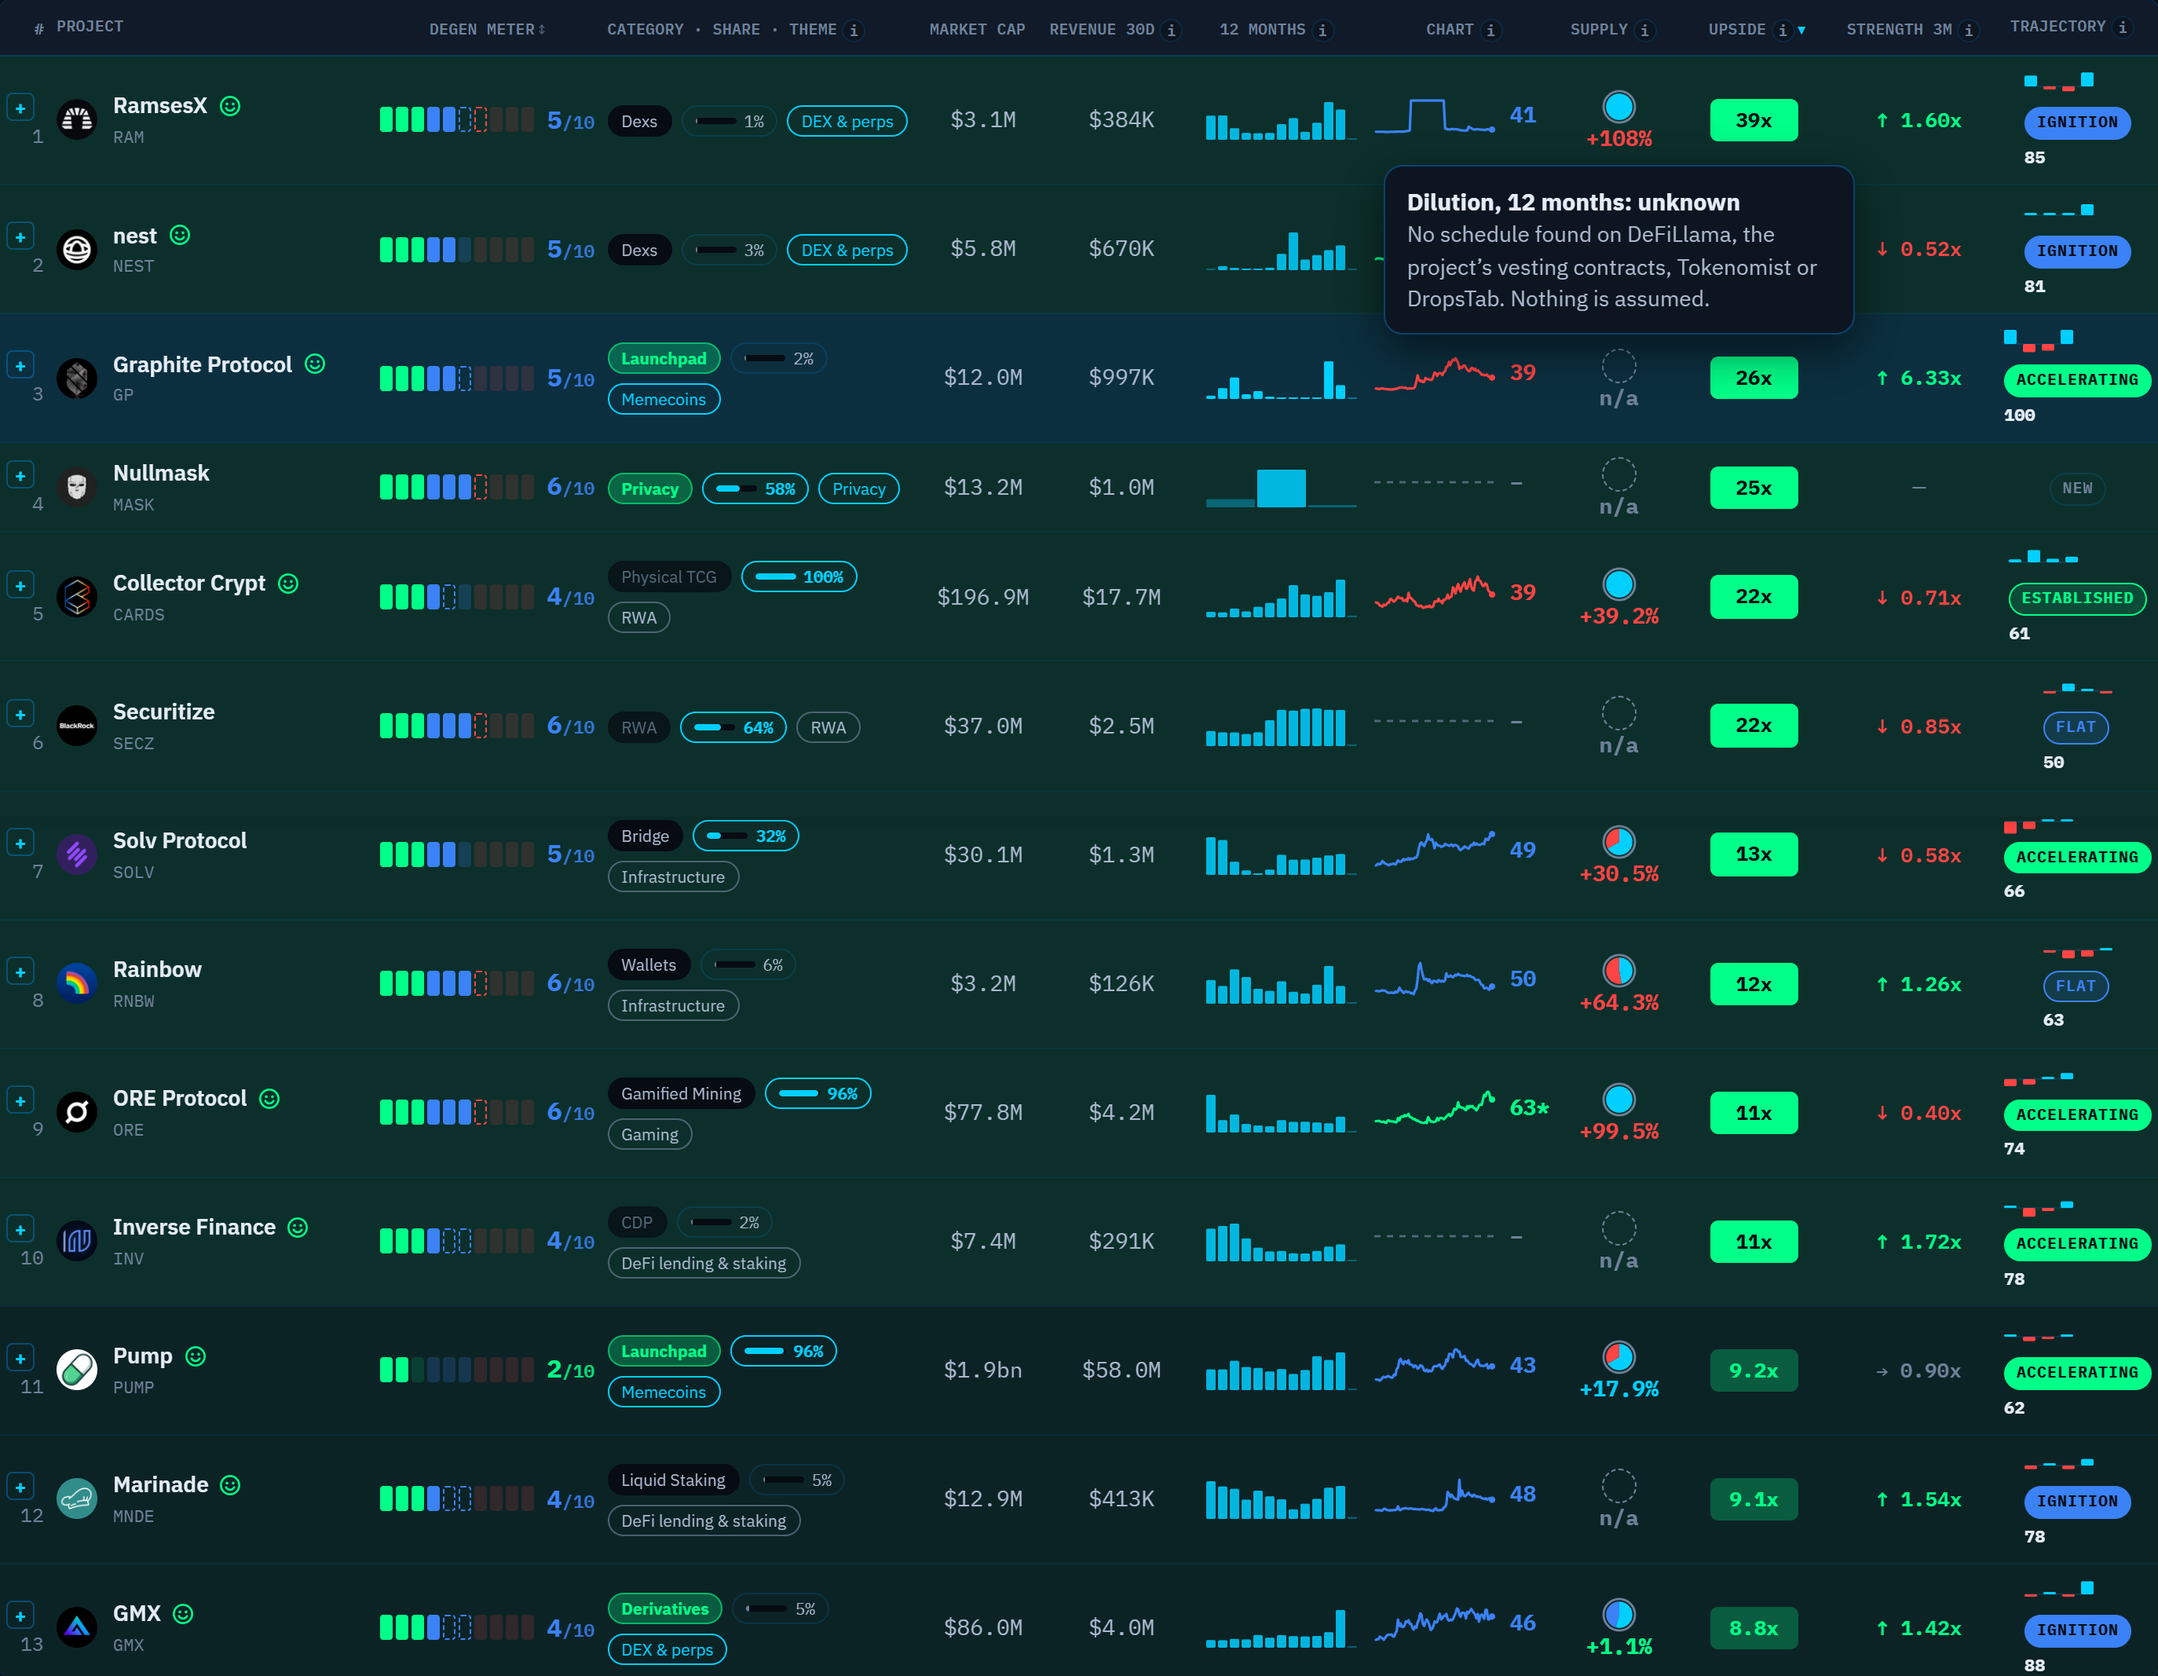
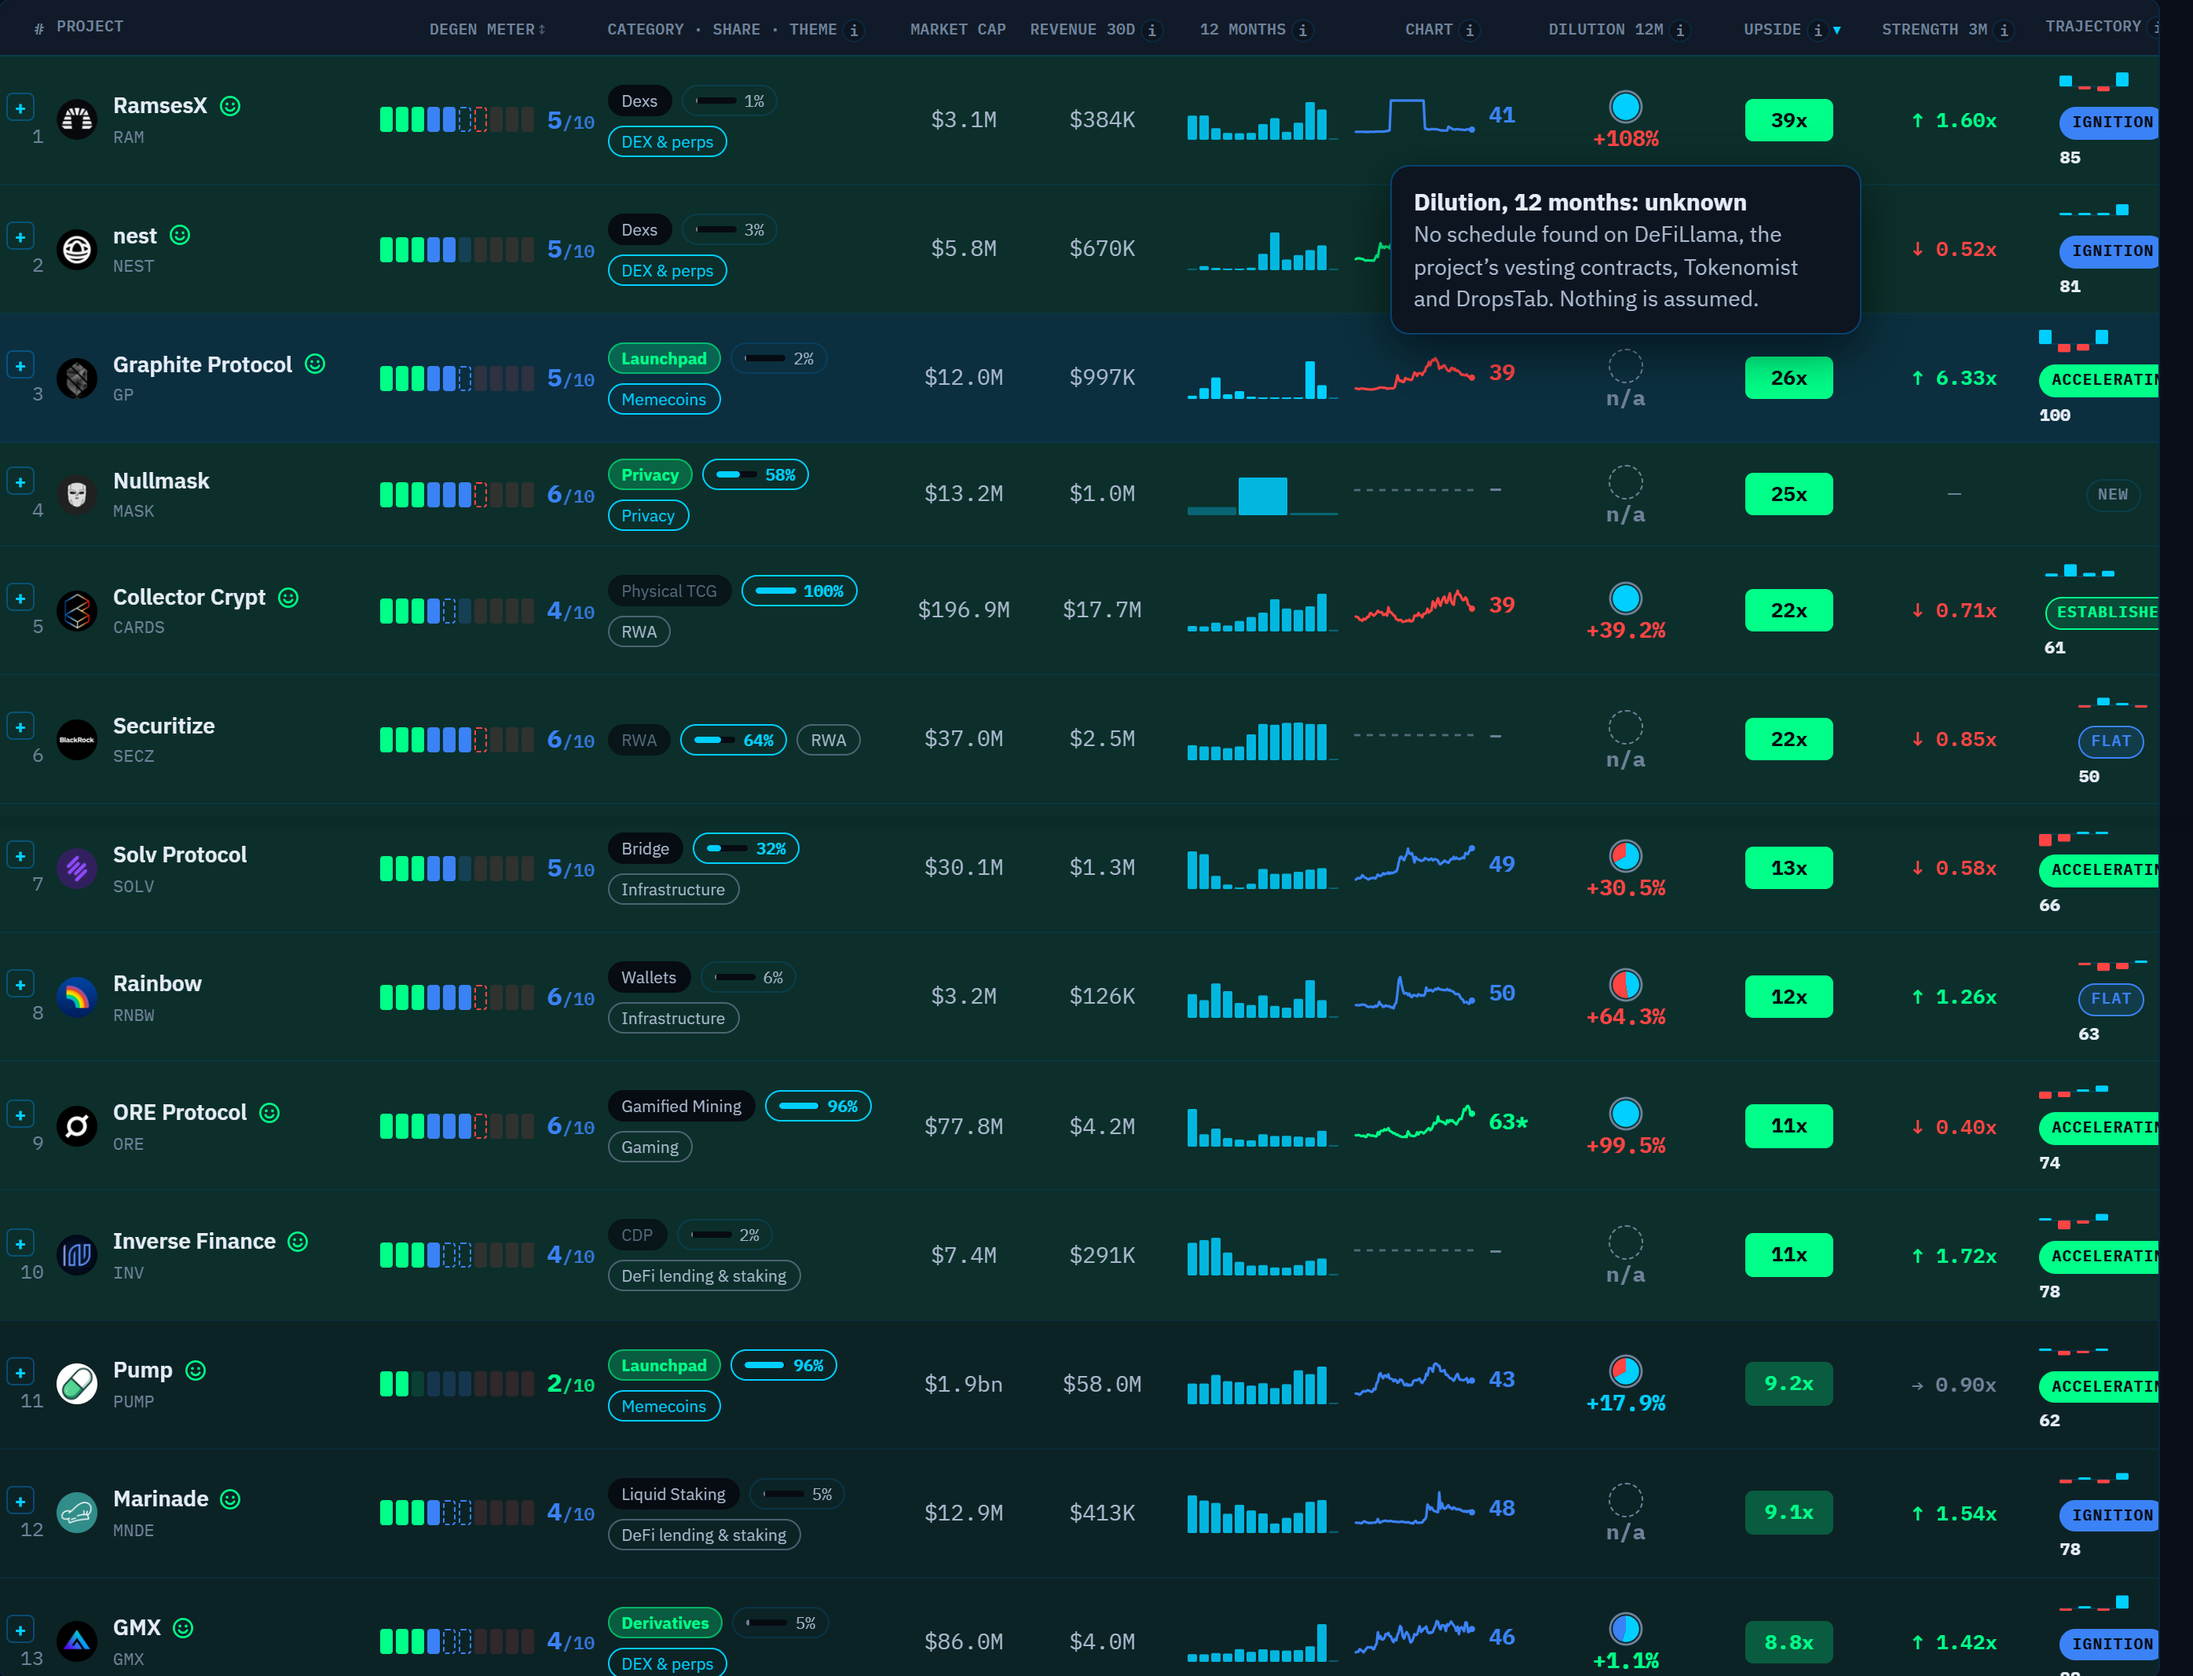
Supply Analyzer request: the column renamed Dilution 12M, since that is what its number is; the coin panel's Supply card keeps its name. Picture redrawn from the mock. Not filed.

diff --git a/outbox/supply-analyzer-sources/patch.js b/outbox/supply-analyzer-sources/patch.js
@@ -25,6 +25,9 @@
       .sort((a, b) => (b.potential || 0) - (a.potential || 0)).slice(0, 6).map(a => a.key || a.slug);
   }
 
+  // ---- 9 the column says what its number is; the panel's Supply card keeps its name, it holds the whole supply
+  [COLS_APPS, COLS_CHAINS].forEach(list => list.forEach(c => { if (c.key === 'supply') { c.label = 'Dilution 12M'; c.en = 'Dilution 12M'; } }));
+
   // ---- 4-8 the Supply column
   const finished = e => {
     const when = SA_MOCK.finished[e.slug];

diff --git a/outbox/supply-analyzer-sources/render.py b/outbox/supply-analyzer-sources/render.py
@@ -1,36 +1,26 @@
-"""Picture 1: their live Apps table with patch.js inside their page script. GET only; nothing is sent."""
+"""Picture 1, from the running mock (serve.py) with the numbers and the box off, at 1440 px."""
 from pathlib import Path
 
-import httpx
 from playwright.sync_api import sync_playwright
 
 HERE = Path(__file__).resolve().parent
-URL = "https://cymetica.com/gem-screener/app?view=apps"
-GO = "/* ================= go ================= */"
-CSS = ".gt-unknown { display: inline-block; width: 22px; height: 22px; border-radius: 50%; border: 1.5px dashed var(--muted, #7f93ad); vertical-align: middle; box-sizing: border-box; }"
-
-html = httpx.get(URL, timeout=120, follow_redirects=True).text
-if GO not in html:
-    raise SystemExit("their page script has moved")
-html = html.replace(GO, (HERE / "patch.js").read_text(encoding="utf-8") + "\n" + GO, 1)
-html = html.replace("<head>", "<head><script>window.WebSocket = undefined;</script>", 1)
+URL = "http://127.0.0.1:8804/gem-screener/app?view=apps"
 
 with sync_playwright() as p:
     b = p.chromium.launch(channel="chrome")
     t = b.new_page(viewport={"width": 1440, "height": 1300}, device_scale_factor=2)
-    t.route(URL, lambda r: r.fulfill(status=200, content_type="text/html; charset=utf-8", body=html))
     t.goto(URL, wait_until="load", timeout=120000)
     t.wait_for_selector("#tbl-apps tbody tr", timeout=60000)
     t.wait_for_function("() => [...document.querySelectorAll('#tbl-apps .supcell .spn')].some(e => /%/.test(e.textContent))", timeout=90000)
-    t.add_style_tag(content=CSS + " .stickytop { position: static !important; }")
+    t.add_style_tag(content=".stickytop { position: static !important; }")
+    t.evaluate("document.body.classList.add('gt-clean')")
     t.wait_for_timeout(3000)
     table = t.locator("#tbl-apps")
     table.scroll_into_view_if_needed()
-    cell = t.locator("#tbl-apps tbody tr .supcell.v-na").first
-    cell.hover()
+    t.locator("#tbl-apps tbody tr .supcell.v-na").first.hover()
     t.wait_for_timeout(900)
     box = table.bounding_box()
     t.screenshot(path=str(HERE / "picture-1-supply-column.png"), clip={"x": box["x"], "y": max(0, box["y"]), "width": min(box["width"], 1400), "height": min(1180, 1300 - max(0, box["y"]))})
-    print(t.evaluate("[...document.querySelectorAll('#tbl-apps tbody tr')].slice(0,14).map(r => (r.querySelector('.nm')||{}).innerText + ': ' + (r.querySelector('.supcell .spn')||{}).innerText).join(' | ')"))
+    print(t.evaluate("[document.getElementById('tbl-apps').scrollWidth, document.getElementById('tbl-apps').parentElement.clientWidth, [...document.querySelectorAll('#tbl-apps thead th')].map(h => h.innerText.replace(/\\s+/g, ' ').trim() + ' ' + Math.round(h.getBoundingClientRect().width)).join(' | ')]"))
     b.close()
 print("rendered")
